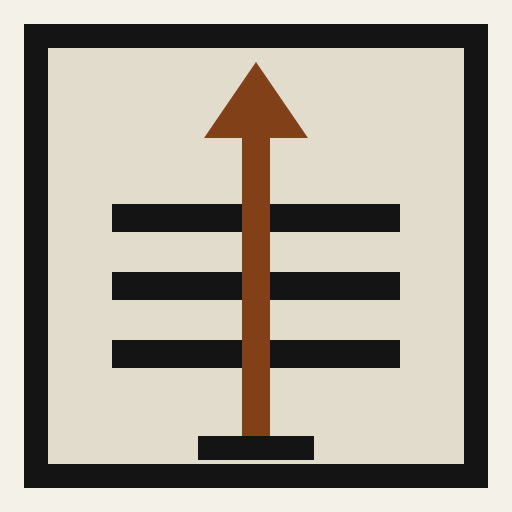
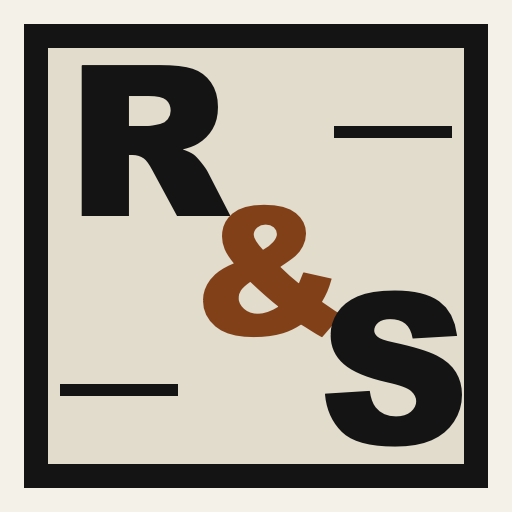
Update Rockets and Stuff emblem

Changed region(s): [[0.1562, 0.125, 0.9062, 0.9062], [0.6562, 0.2188, 0.9062, 0.2812], [0.0938, 0.75, 0.3438, 0.7812]]

diff --git a/styles.css b/styles.css
@@ -64,11 +64,13 @@ blockquote {
 
 h1 {
   margin-bottom: 6px;
-  font-family: Arial, Helvetica, sans-serif;
-  font-size: clamp(2.8rem, 8vw, 5.8rem);
-  line-height: 0.9;
-  letter-spacing: 0;
-  text-transform: uppercase;
+  line-height: 1;
+}
+
+.site-logo {
+  display: block;
+  width: min(100%, 720px);
+  height: auto;
 }
 
 .subtitle {
@@ -289,10 +291,6 @@ footer {
   .page {
     width: min(100% - 24px, 920px);
     padding-top: 18px;
-  }
-
-  h1 {
-    font-size: clamp(2.65rem, 15vw, 4.4rem);
   }
 
   .site-nav {

diff --git a/index.html b/index.html
@@ -39,7 +39,9 @@
     <main class="page">
       <header class="site-header">
         <p class="pretitle">rocketsandstuff.com</p>
-        <h1>Rockets & Stuff</h1>
+        <h1>
+          <img class="site-logo" src="/assets/logo-mark.svg" alt="Rockets & Stuff">
+        </h1>
         <p class="subtitle">A general store for funding amateur rocketry research.</p>
       </header>
 